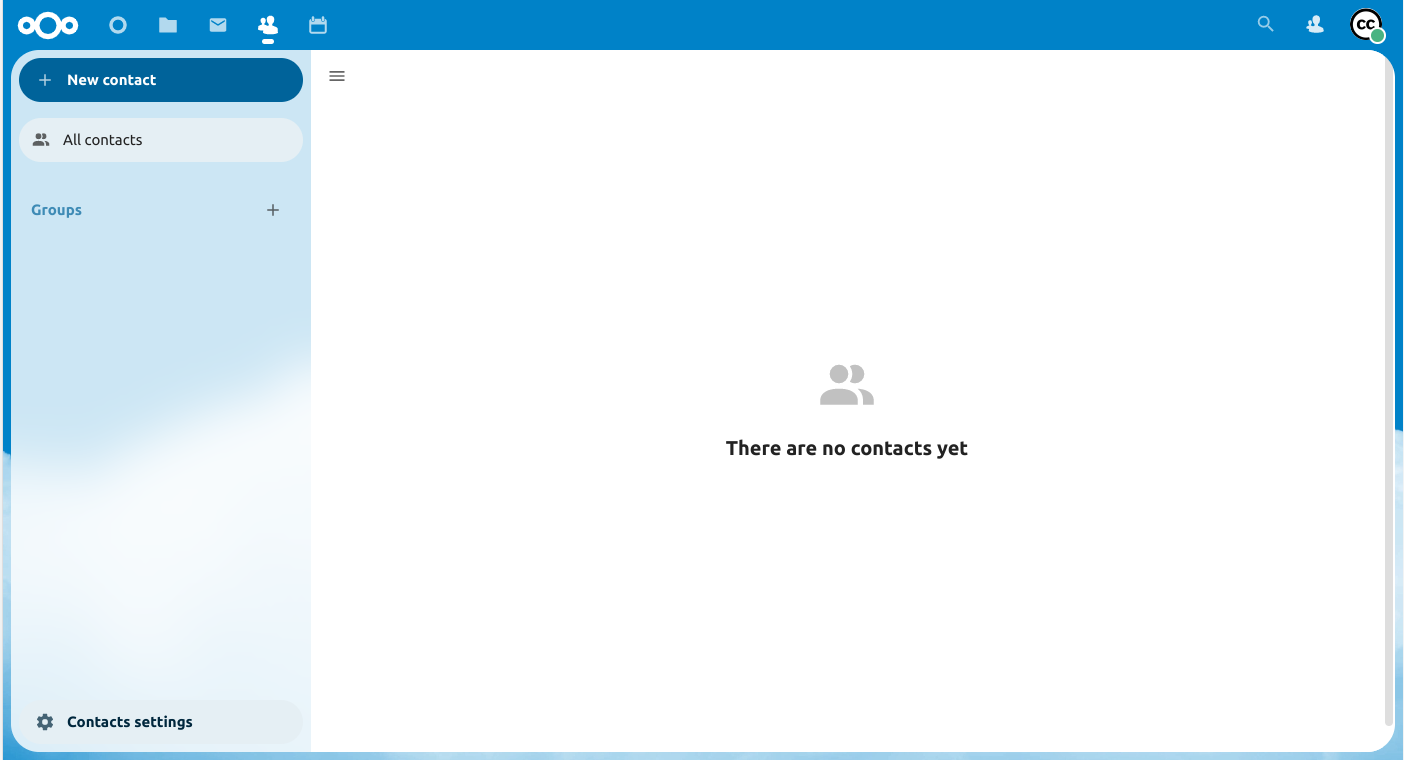
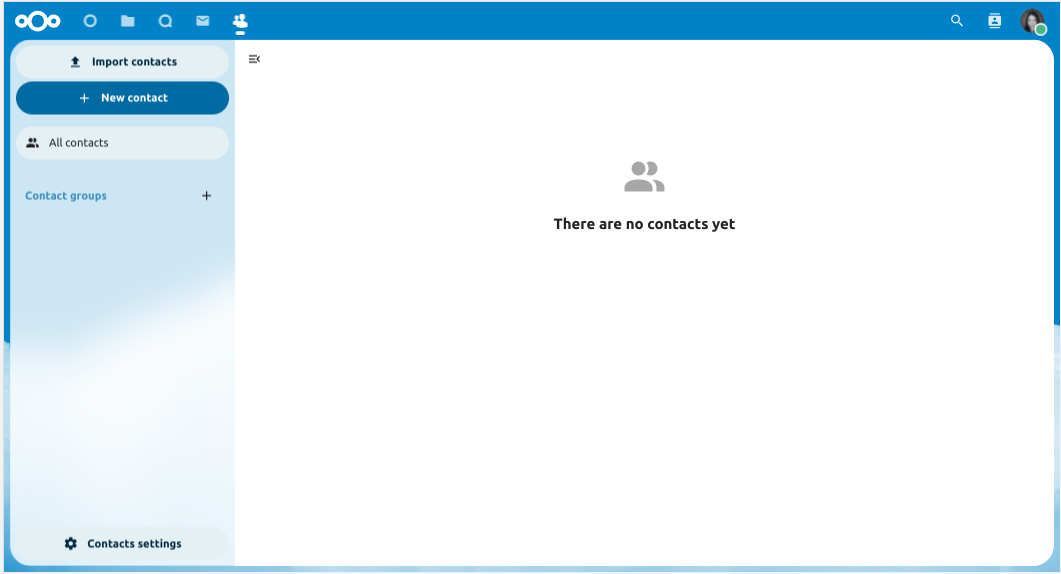
Change screenshots to new design

diff --git a/user_manual/groupware/contacts.rst b/user_manual/groupware/contacts.rst
@@ -6,12 +6,12 @@ The Contacts app is not enabled by default in Nextcloud |version| and needs to
 be installed separately from our App Store.
 
 The Nextcloud Contacts app is similar to other mobile contact applications, but
-with more functionality. 
+with more functionality.
 Let's run through basic features that will help you maintain your address book
-in the application. 
+in the application.
 
-Below, you will learn how to add contacts, edit or remove contacts, upload a 
-contact picture and manage your address books. 
+Below, you will learn how to add contacts, edit or remove contacts, upload a
+contact picture and manage your address books.
 
 
 Adding Contacts
@@ -25,7 +25,7 @@ When you first access the Contacts app, an empty default address book becomes av
 
 To add contacts into your address book, you can use one of the following methods:
 
-* Import contacts using a Virtual Contact File (VCF/vCard) file 
+* Import contacts using a Virtual Contact File (VCF/vCard) file
 * Add contacts manually
 
 The fastest way to add a contact is to use a Virtual Contact File
@@ -37,21 +37,22 @@ Importing Virtual Contacts
 
 To Import Contacts Using a VCF/vCard File:
 
-1. Find "Settings" at the bottom of the left sidebar, next to the gear button:
+1. On top left of the screen you have "Import contacts" button that is shown only when you don't have any contacts yet.
+2. Find "Settings" at the bottom of the left sidebar, next to the gear button:
 
-	.. figure:: ../images/contact_bottombar.png 
+	.. figure:: ../images/contact_bottombar.png
 		:alt: Contact settings gear button
-  
-2. Click the gear button. The Contacts app "Import" button will appear:
+
+3. Click the gear button. The Contacts app "Import" button will appear:
 
 	.. figure:: ../images/contact_uploadbutton.png
 		:alt: Contacts Upload Field
-  
+
 .. note:: The Contacts app only supports import of vCards version 3.0 and 4.0.
 
-3. Click the "Import" button and upload your VCF/vCard file. 
+4. Click the "Import" button and upload your VCF/vCard file.
 
-After the import is complete, you will see your new contact in your address book. 
+After the import is complete, you will see your new contact in your address book.
 
 
 Adding Contacts Manually
@@ -63,11 +64,14 @@ To Create a New Contact:
 
 1. Click the ``+ New contact`` button.
 
-   An empty new contact configuration opens in the Application View field:
-   
+   The Edit View configuration opens in the Application View field:
+
   .. figure:: ../images/contact_new.png
-  
-2. Specify the new contact information. Changes that you made are implemented immediately.
+
+2. Specify the new contact information then click Save.
+3. The View mode will be shown with the data you added
+
+.. figure:: ../images/contact_view_mode.png
 
 
 Edit or Remove Contact Information
